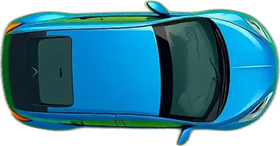
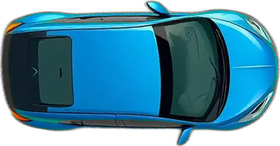
feat: photorealistic car sprites in all maneuver animations (5 color variants)

diff --git a/src/components/maneuvers/AnimatedManeuver.tsx b/src/components/maneuvers/AnimatedManeuver.tsx
@@ -11,7 +11,7 @@
 import React, { useState, useEffect, useMemo } from 'react';
 import { Play, Pause, RotateCcw, ChevronLeft, ChevronRight } from 'lucide-react';
 import { motion, AnimatePresence } from 'framer-motion';
-import { GlobalDefinitions, TopDownCar, VisionCone, SteeringWheelOverlay, InstructionPopup, GrassBackground, Building } from './SimulatorComponents';
+import { GlobalDefinitions, RealCar, VisionCone, SteeringWheelOverlay, InstructionPopup, GrassBackground, Building } from './SimulatorComponents';
 import { MANEUVER_STEPS } from '../../data/maneuvers';
 import { TRANSLATIONS } from '../../data/translations';
 
@@ -199,8 +199,8 @@ const ParallelParkingAnimation: React.FC<AnimationProps> = ({ step, progress, t 
         <rect x="0" y="210" width="400" height="4" fill="#64748b" />
 
         {/* Parked Cars */}
-        <g transform="translate(70, 185)"><TopDownCar color="#94a3b8" /></g>
-        <g transform="translate(330, 185)"><TopDownCar color="#94a3b8" /></g>
+        <g transform="translate(70, 185)"><RealCar variant="gray" /></g>
+        <g transform="translate(330, 185)"><RealCar variant="gray" /></g>
 
         {/* Path Arrow */}
         {step >= 3 && step <= 6 && (
@@ -209,7 +209,7 @@ const ParallelParkingAnimation: React.FC<AnimationProps> = ({ step, progress, t 
 
         {/* User Car */}
         <g transform={`translate(${state.x}, ${state.y}) rotate(${state.rotation})`}>
-          <TopDownCar color="#3b82f6" indicator={state.indicator} isUser={true} />
+          <RealCar indicator={state.indicator} />
           <AnimatePresence>
             {step === 1 && (
               <g transform="translate(0, -10)">
@@ -279,12 +279,12 @@ const ReverseParkingAnimation: React.FC<AnimationProps> = ({ step, progress, t }
         ))}
         
         {/* Stationary Cars */}
-        <g transform="translate(140, 180) rotate(-90)"><TopDownCar color="#94a3b8" /></g>
-        <g transform="translate(300, 180) rotate(-90)"><TopDownCar color="#94a3b8" /></g>
+        <g transform="translate(140, 180) rotate(-90)"><RealCar variant="gray" /></g>
+        <g transform="translate(300, 180) rotate(-90)"><RealCar variant="gray" /></g>
 
         {/* User Car */}
         <g transform={`translate(${state.x}, ${state.y}) rotate(${state.rotation})`}>
-          <TopDownCar color="#3b82f6" indicator={state.indicator} isUser={true} />
+          <RealCar indicator={state.indicator} />
           <AnimatePresence>
             {step === 1 && <VisionCone side="round" opacity={0.4} />}
             {step === 3 && <VisionCone side="right" opacity={0.6} />}
@@ -295,45 +295,6 @@ const ReverseParkingAnimation: React.FC<AnimationProps> = ({ step, progress, t }
     </div>
   );
 };
-
-/** Photorealistic top-down car sprite (public/topdown-car.png, nose pointing
- *  +x like TopDownCar) with the same indicator / reverse-light overlays. */
-const RealCar: React.FC<{
-  indicator?: 'left' | 'right' | 'none';
-  reverseLights?: boolean;
-  scale?: number;
-}> = ({ indicator = 'none', reverseLights = false, scale = 1 }) => (
-  <g transform={`scale(${scale})`}>
-    <rect x="-36" y="-17" width="72" height="36" rx="10" fill="black" opacity="0.18" transform="translate(2, 3)" />
-    <image href="/topdown-car.png" x={-38} y={-20} width={76} height={40} preserveAspectRatio="xMidYMid meet" />
-    {reverseLights && (
-      <g>
-        <rect x="-37" y="-6" width="3.5" height="4.5" rx="1" fill="white" />
-        <rect x="-37" y="1.5" width="3.5" height="4.5" rx="1" fill="white" />
-      </g>
-    )}
-    <AnimatePresence>
-      {indicator === 'left' && (
-        <motion.g animate={{ opacity: [1, 0, 1] }} transition={{ duration: 0.6, repeat: Infinity, ease: 'linear' }}>
-          <circle cx="29" cy="-15" r="3.5" fill="#fbbf24" />
-          <circle cx="-33" cy="-15" r="3.5" fill="#fbbf24" />
-          <circle cx="29" cy="-15" r="8" fill="url(#indicatorGlow)" />
-          <circle cx="-33" cy="-15" r="8" fill="url(#indicatorGlow)" />
-        </motion.g>
-      )}
-    </AnimatePresence>
-    <AnimatePresence>
-      {indicator === 'right' && (
-        <motion.g animate={{ opacity: [1, 0, 1] }} transition={{ duration: 0.6, repeat: Infinity, ease: 'linear' }}>
-          <circle cx="29" cy="15" r="3.5" fill="#fbbf24" />
-          <circle cx="-33" cy="15" r="3.5" fill="#fbbf24" />
-          <circle cx="29" cy="15" r="8" fill="url(#indicatorGlow)" />
-          <circle cx="-33" cy="15" r="8" fill="url(#indicatorGlow)" />
-        </motion.g>
-      )}
-    </AnimatePresence>
-  </g>
-);
 
 const ThreePointTurnAnimation: React.FC<AnimationProps> = ({ step, progress, t }) => {
   // Bicycle-model motion: the car sweeps exact circular arcs (like a real
@@ -497,7 +458,7 @@ const EmergencyBrakeAnimation: React.FC<AnimationProps> = ({ step, progress, t }
         <line x1="0" y1="125" x2="400" y2="125" stroke="white" strokeWidth="1" strokeDasharray="10,10" opacity="0.2" />
 
         <g transform={`translate(${state.x}, ${state.y})`}>
-          <TopDownCar color="#3b82f6" isUser={true} brakeLights={state.brake} scale={0.8} />
+          <RealCar brakeLights={state.brake} scale={0.8} />
           {step === 4 && <VisionCone side="round" opacity={0.5} />}
         </g>
 
@@ -602,7 +563,7 @@ const RoundaboutAnimation: React.FC<AnimationProps> = ({ step, progress, t }) =>
         <line x1="175" y1="185" x2="225" y2="185" stroke="#fff" strokeWidth="3" strokeDasharray="4,4" />
 
         <g transform={`translate(${state.x}, ${state.y}) rotate(${state.rotation})`}>
-          <TopDownCar color="#3b82f6" indicator={state.indicator} isUser={true} scale={0.7} />
+          <RealCar indicator={state.indicator} scale={0.7} />
           <AnimatePresence>
             {step === 1 && <VisionCone side="left" opacity={0.6} />}
             {step === 4 && <VisionCone side="right" opacity={0.6} />}
@@ -674,12 +635,12 @@ const HighwayMergeAnimation: React.FC<AnimationProps> = ({ step, progress, t }) 
         />
 
         {/* Highway Traffic with varied colors */}
-        <g transform="translate(320, 65)"><TopDownCar color="#ef4444" scale={0.8} /></g>
-        <g transform="translate(100, 65)"><TopDownCar color="#10b981" scale={0.8} /></g>
+        <g transform="translate(320, 65)"><RealCar variant="red" scale={0.8} /></g>
+        <g transform="translate(100, 65)"><RealCar variant="green" scale={0.8} /></g>
 
         {/* User Car */}
         <g transform={`translate(${state.x}, ${state.y}) rotate(${state.rotation})`}>
-          <TopDownCar color="#3b82f6" indicator={state.indicator} isUser={true} scale={0.8} />
+          <RealCar indicator={state.indicator} scale={0.8} />
           {step === 2 && <VisionCone side="left" opacity={0.6} />}
         </g>
 

diff --git a/src/components/maneuvers/SimulatorComponents.tsx b/src/components/maneuvers/SimulatorComponents.tsx
@@ -103,6 +103,60 @@ export const GlobalDefinitions = () => (
   </svg>
 );
 
+/** Photorealistic top-down car sprite (public/topdown-car*.png, nose pointing
+ *  +x like TopDownCar) with the same indicator / brake / reverse overlays. */
+export const RealCar: React.FC<{
+  variant?: 'blue' | 'gray' | 'slate' | 'red' | 'green';
+  indicator?: 'left' | 'right' | 'hazard' | 'none';
+  brakeLights?: boolean;
+  reverseLights?: boolean;
+  scale?: number;
+}> = ({ variant = 'blue', indicator = 'none', brakeLights = false, reverseLights = false, scale = 1 }) => {
+  const href = variant === 'blue' ? '/topdown-car.png' : `/topdown-car-${variant}.png`;
+  const leftOn = indicator === 'left' || indicator === 'hazard';
+  const rightOn = indicator === 'right' || indicator === 'hazard';
+  return (
+    <g transform={`scale(${scale})`}>
+      <rect x="-36" y="-17" width="72" height="36" rx="10" fill="black" opacity="0.18" transform="translate(2, 3)" />
+      <image href={href} x={-38} y={-20} width={76} height={40} preserveAspectRatio="xMidYMid meet" />
+      {brakeLights && (
+        <g>
+          <rect x="-37.5" y="-14" width="3.5" height="8" rx="1.5" fill="#ef4444" />
+          <rect x="-37.5" y="6" width="3.5" height="8" rx="1.5" fill="#ef4444" />
+          <circle cx="-36" cy="-10" r="7" fill="#ef4444" opacity="0.25" />
+          <circle cx="-36" cy="10" r="7" fill="#ef4444" opacity="0.25" />
+        </g>
+      )}
+      {reverseLights && (
+        <g>
+          <rect x="-37" y="-6" width="3.5" height="4.5" rx="1" fill="white" />
+          <rect x="-37" y="1.5" width="3.5" height="4.5" rx="1" fill="white" />
+        </g>
+      )}
+      <AnimatePresence>
+        {leftOn && (
+          <motion.g animate={{ opacity: [1, 0, 1] }} transition={{ duration: 0.6, repeat: Infinity, ease: 'linear' }}>
+            <circle cx="29" cy="-15" r="3.5" fill="#fbbf24" />
+            <circle cx="-33" cy="-15" r="3.5" fill="#fbbf24" />
+            <circle cx="29" cy="-15" r="8" fill="url(#indicatorGlow)" />
+            <circle cx="-33" cy="-15" r="8" fill="url(#indicatorGlow)" />
+          </motion.g>
+        )}
+      </AnimatePresence>
+      <AnimatePresence>
+        {rightOn && (
+          <motion.g animate={{ opacity: [1, 0, 1] }} transition={{ duration: 0.6, repeat: Infinity, ease: 'linear' }}>
+            <circle cx="29" cy="15" r="3.5" fill="#fbbf24" />
+            <circle cx="-33" cy="15" r="3.5" fill="#fbbf24" />
+            <circle cx="29" cy="15" r="8" fill="url(#indicatorGlow)" />
+            <circle cx="-33" cy="15" r="8" fill="url(#indicatorGlow)" />
+          </motion.g>
+        )}
+      </AnimatePresence>
+    </g>
+  );
+};
+
 export const TopDownCar: React.FC<{
   color: string;
   indicator?: 'left' | 'right' | 'hazard' | 'none';

diff --git a/src/components/maneuvers/InteractiveParking.tsx b/src/components/maneuvers/InteractiveParking.tsx
@@ -7,7 +7,7 @@ import { useState, useEffect } from 'react';
 import { motion, AnimatePresence } from 'framer-motion';
 import { RotateCcw, Check, Info } from 'lucide-react';
 import { cn } from '../../utils/cn';
-import { GlobalDefinitions, TopDownCar } from './SimulatorComponents';
+import { GlobalDefinitions, RealCar, } from './SimulatorComponents';
 import { TRANSLATIONS } from '../../data/translations';
 
 
@@ -86,7 +86,7 @@ export default function InteractiveParking({ onComplete, language }: { onComplet
           style={{ top: '45px', left: '260px' }}
         >
           <svg width="70" height="36" viewBox="-35 -18 70 36">
-            <TopDownCar color="#94a3b8" />
+            <RealCar variant="gray" />
           </svg>
         </div>
         
@@ -96,7 +96,7 @@ export default function InteractiveParking({ onComplete, language }: { onComplet
           style={{ top: '45px', left: '20px' }}
         >
           <svg width="70" height="36" viewBox="-35 -18 70 36">
-            <TopDownCar color="#475569" />
+            <RealCar variant="slate" />
           </svg>
         </div>
 
@@ -113,10 +113,9 @@ export default function InteractiveParking({ onComplete, language }: { onComplet
            className="absolute z-20"
         >
            <svg width="70" height="36" viewBox="-35 -18 70 36" style={{ overflow: 'visible' }}>
-              <TopDownCar 
-                color="#10b981" 
-                isUser={true} 
-                indicator={phase === 'start' ? 'none' : 'right'} 
+              <RealCar
+                variant="green"
+                indicator={phase === 'start' ? 'none' : 'right'}
                 brakeLights={phase === 'align' || phase === 'final'}
               />
            </svg>
